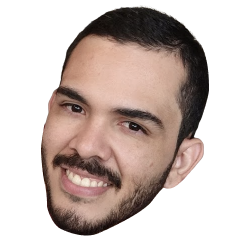
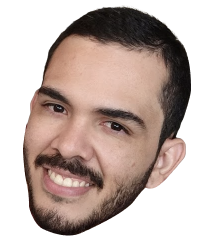
minsegs

diff --git a/index.html b/index.html
@@ -11,16 +11,12 @@
 <body>
 
 <div id="content">
-  <div class="foto-container">
-    <div class="foto-wrapper">
-      <img class="foto" src="fotico.jpg">
-    </div>
-  </div>
   <div id="progreso-container">
-    <img id="gio" class="foto-progreso" src="gio.png">
     <img id="david" class="foto-progreso" src="david.png">
+    <img id="gio" class="foto-progreso" src="gio.png">
     <progress id="progreso" max="100" value="0"></progress>
   </div>
+  <p id="falta">Solo faltan</p>
   <div id="count">
     <div id="meses" class="count-container">
       <span id="num-m" class="num"></span><span id="let-m" class="letra"></span>
@@ -31,8 +27,19 @@
     <div id="horas" class="count-container">
       <span id="num-h" class="num"></span><span id="let-h" class="letra"></span>
     </div>
+    <div id="minutos" class="count-container">
+      <span id="num-min" class="num"></span><span id="let-min" class="letra"></span>
+    </div>
+    <div id="segundos" class="count-container">
+      <span id="num-s" class="num"></span><span id="let-s" class="letra"></span>
+    </div>
   </div>
   <p id="texto"></p>
+  <div class="foto-container">
+    <div class="foto-wrapper">
+      <img class="foto" src="fotico.jpg">
+    </div>
+  </div>
 </div>
 
 <script>
@@ -65,8 +72,12 @@ var x = setInterval(function() {
   document.getElementById("let-d").innerHTML = (days!=1?" días":" día");
   document.getElementById("num-h").innerHTML = hours;
   document.getElementById("let-h").innerHTML = (hours!=1?" horas":" hora");
+  document.getElementById("num-min").innerHTML = minutes;
+  document.getElementById("let-min").innerHTML = (minutes!=1?" mins.":" min.");
+  document.getElementById("num-s").innerHTML = seconds;
+  document.getElementById("let-s").innerHTML = (seconds!=1?" segs.":" seg.");
   document.getElementById("progreso").value = progress;
-  document.getElementById("gio").style.left = (progress-10) + "%";
+  document.getElementById("gio").style.left = (progress-20) + "%";
 
   if(months<1) {
     document.getElementById("meses").style.display='none';
@@ -74,14 +85,21 @@ var x = setInterval(function() {
       document.getElementById("dias").style.display='none';
       if(hours<1) {
         document.getElementById("horas").style.display='none';
+        if(minutes<1) {
+          document.getElementById("minutos").style.display='none';
+          if(seconds<1) {
+            document.getElementById("segundos").style.display='none';
+          }
+        }
       }
     }
   }
 
   // If the count down is finished, write some text
-  if (distance < 0) {
+  if (distance <= 0) {
     clearInterval(x);
     document.getElementById("texto").innerHTML = "Estamos juntos ♥";
+    document.getElementById("falta").style.display = 'none';
   }else{
     document.getElementById("texto").innerHTML = "para volver a estar así";
   }

diff --git a/style.css b/style.css
@@ -20,7 +20,7 @@ body{
 
 .foto-container{
     position: relative;
-    width: 30%;
+    width: 10%;
     max-width: 200px;
 }
 
@@ -31,22 +31,21 @@ body{
 
 .foto {
     position: absolute;
-    top: -10px;
-    left: -10px;
+    top: -5px;
+    left: -5px;
     width: 100%;
     height: 100%;
     object-fit: cover;
     border-radius: 50%;
-    border: 10px solid white;
+    border: 5px solid white;
     -webkit-box-shadow: 0px 3px 18px -1px rgba(0,0,0,0.42);
     -moz-box-shadow: 0px 3px 18px -1px rgba(0,0,0,0.42);
     box-shadow: 0px 3px 18px -1px rgba(0,0,0,0.42);
 }
 
 #progreso-container{
-    margin-top: 50px;
-    width: 30%;
-    max-width: 200px;
+    width: 50%;
+    max-width: 500px;
     position: relative;
 }
 
@@ -57,12 +56,17 @@ body{
 
 .foto-progreso{
     position: absolute;
-    top: 0;
+    top: -30px;
     width: 20%;
 }
 
 #david{
-    right: -10%;
+    right: -17%;
+}
+
+#falta{
+    margin-top: 40px;
+    margin-bottom: 0;
 }
 
 #count{
@@ -104,16 +108,38 @@ body{
 
 #texto{
     color: #264575;
+    margin-top: 70px;
 }
 
 @media (max-width: 768px) {
     .foto-container{
-        width: 50%;
+        width: 30%;
+    }
+
+    .count-container{
+        margin-right: 12px;
+    }
+
+    .num{
+       font-size: 28px;
+    }
+
+    .letra{
+        font-size: 18px;
     }
 
     #progreso-container{
-        width: 70%;
+        width: 60%;
         max-width: 70%;
         position: relative;
+    }
+
+    .foto-progreso{
+        top: -100%;
+        width: 30%;
+    }
+
+    #david{
+        right: -30%;
     }
 }
